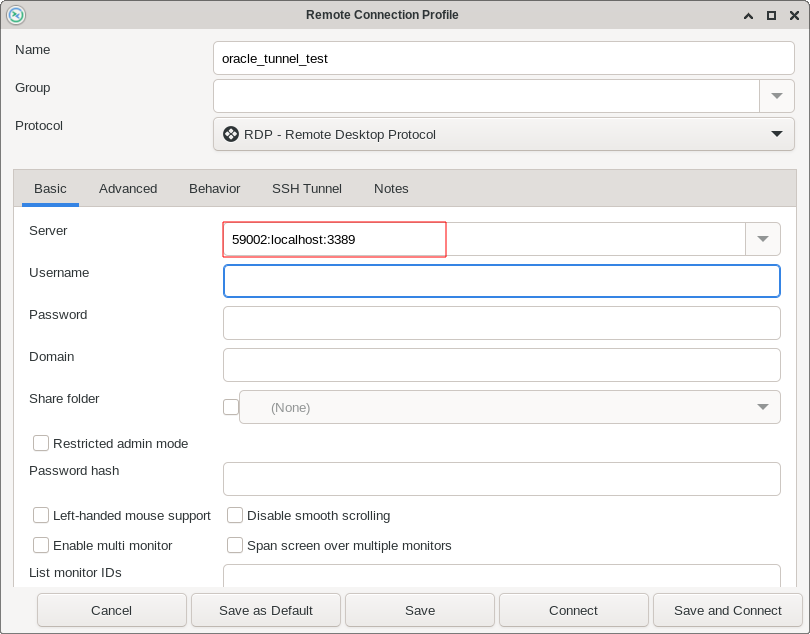
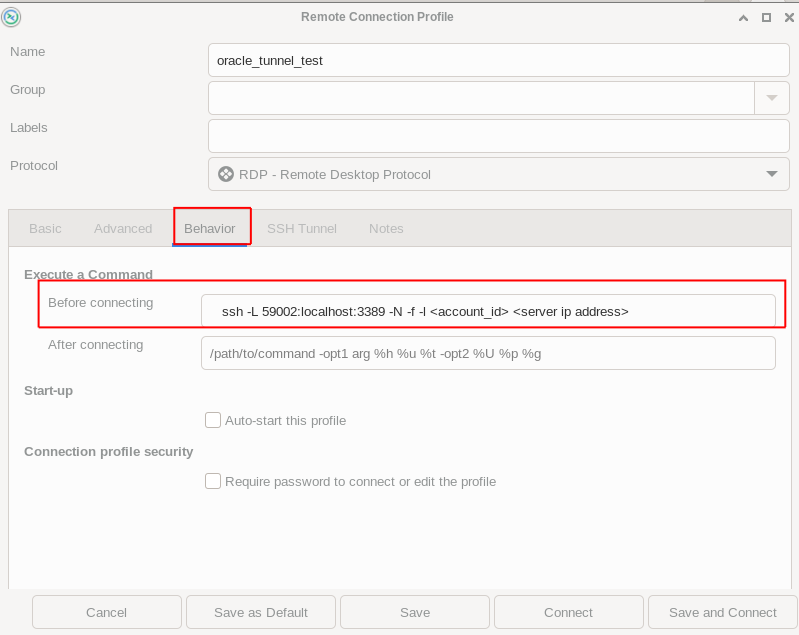
Update post of "RDP over ssh"

diff --git a/_posts/2022-06-12-rdp_over_ssh_tunnel.md b/_posts/2022-06-12-rdp_over_ssh_tunnel.md
@@ -1,8 +1,8 @@
 ---
 layout: single
-title: RDP over ssh tunnel
+title: RDP over ssh
 date : 2022-06-12 01:23:45 +0900
-last_modified_at: 2022-06-12 15:47:50 +0900
+last_modified_at: 2024-03-01 10:56:36 +0900
 categories: [rdp]
 tags: [rdp ssh]
 comments: true
@@ -10,7 +10,7 @@ public : true
 use_math : true
 ---
 
-# RDP over ssh tunnel using reminna
+# RDP over ssh using reminna
 ## After ssh connection in terminal, connect to localhost:59002 in reminna
   * run command in terminal
    ```bash
@@ -18,12 +18,6 @@ use_math : true
    ```
   * connect to "localhost:59002" in reminna
 ![remmina_rdp_on_ssh_tunnel-server_setting_1](/assets/images/remmina_rdp_on_ssh_tunnel_server_setting_1.png){:width="80%"}
-   
 
-## Or Setting up an ssh tunnel only in reminna
-  * Basic setting  
+  * the ssh command can be set in "Behavior" tab in remmina
 ![remmina_rdp_on_ssh_tunnel-server_setting_2](/assets/images/remmina_rdp_on_ssh_tunnel_server_setting_2.png){:width="80%"}
-  * SSH Tunnel setting   
-![remmina_rdp_on_ssh_tunnel-server_setting_3](/assets/images/remmina_rdp_on_ssh_tunnel_server_setting_3.png){:width="80%"}
-  * Set the authentication type according to the server configuration
-      ## test
